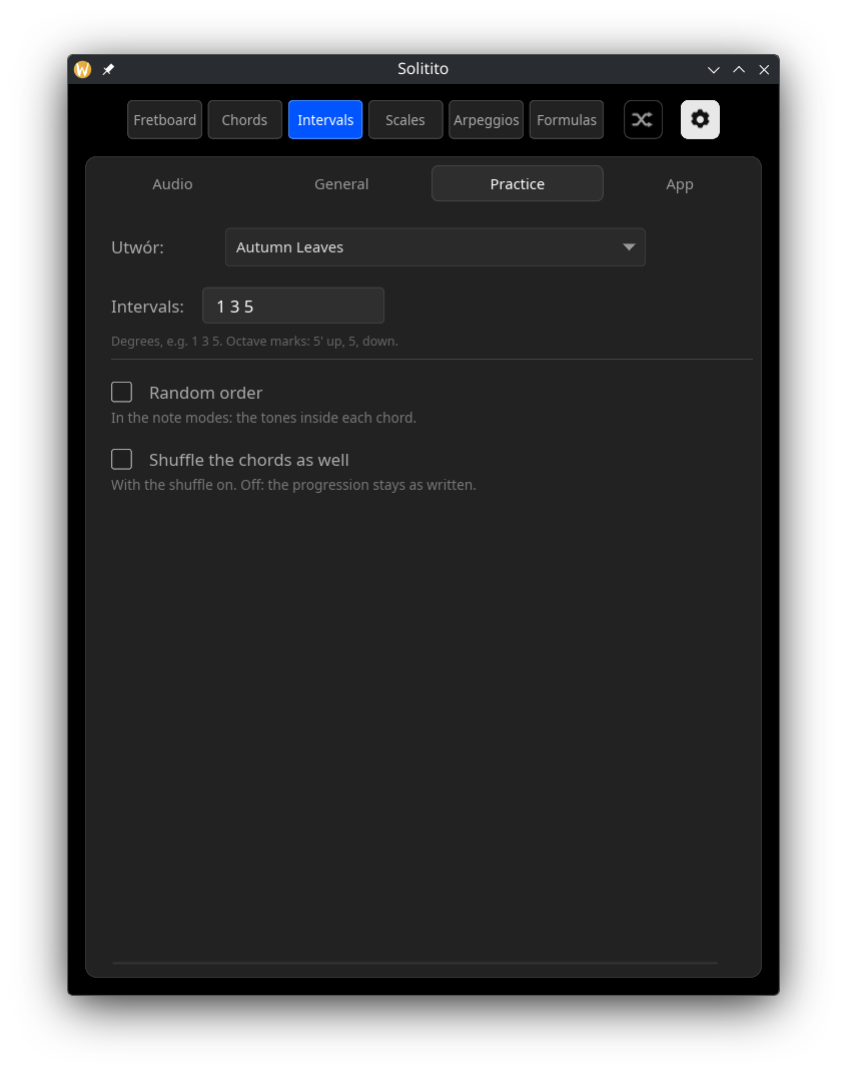
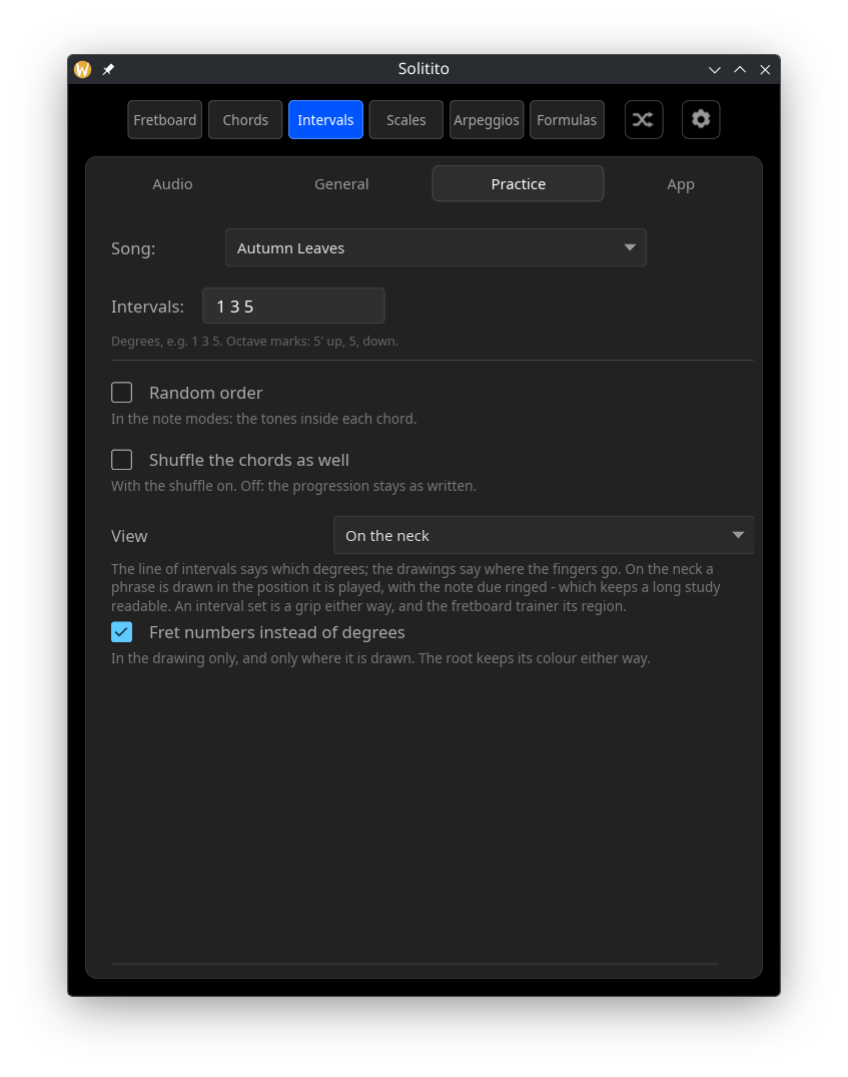
New screenshots for the drawings
- The fretboard trainer, an interval grip, a scale on the neck and an
  arpeggio study as tablature
- The Practice tab shots redone with the view dropdown in them

diff --git a/README_pl.md b/README_pl.md
@@ -52,6 +52,16 @@ akord, przechodzi do następnego.
 - **Arpeggia** — składniki akordu w kolejności lub losowo, przez progresję, zapisane stopniami, więc
   jeden wzorzec pasuje do każdego akordu w standardzie. Dwuoktawowe frazy jazzowe oraz
   generator budujący nowe arpeggio po każdym przejściu.
+<div align="center">
+<img height="360" alt="Gryf" src="docs/solitito_fretboard.png" />
+<img height="360" alt="Interwały jako chwyt" src="docs/solitito_intervals.png" />
+</div>
+
+<div align="center">
+<img height="360" alt="Skala na podstrunnicy" src="docs/solitito_scales.png" />
+<img height="360" alt="Studium arpeggiowe jako tabulatura" src="docs/solitito_arpeggios_tab.png" />
+</div>
+
 - **Formuły** — zbiór interwałów wylosowany nad prymą, grany w dowolnej kolejności. Każda
   funkcja/interwał zapala się, gdy zabrzmi, a zbiór jest zaliczany, kiedy zapalą się wszystkie; pod
   spodem najbliższa skala, którą już znasz, z wyróżnionymi stopniami formuły, oraz akordy

diff --git a/README.md b/README.md
@@ -53,6 +53,17 @@ chord, the app moves on to the next one.
 - **Arpeggios** — chord tones in sequence over a progression, written as degrees so one
   pattern fits every chord in a standard. Two-octave jazz phrases, plus a generator that
   builds a fresh one after every pass.
+
+<div align="center">
+<img height="360" alt="Fretboard trainer" src="docs/solitito_fretboard.png" />
+<img height="360" alt="Intervals as a grip" src="docs/solitito_intervals.png" />
+</div>
+
+<div align="center">
+<img height="360" alt="A scale on the neck" src="docs/solitito_scales.png" />
+<img height="360" alt="An arpeggio study as tablature" src="docs/solitito_arpeggios_tab.png" />
+</div>
+
 - **Formulas** — a set of intervals drawn over a root, played in any order. Each function
   lights up as it sounds, and the set is finished when all of them have; underneath, the
   nearest scale you already know, with the formula's own degrees picked out of it, and the
